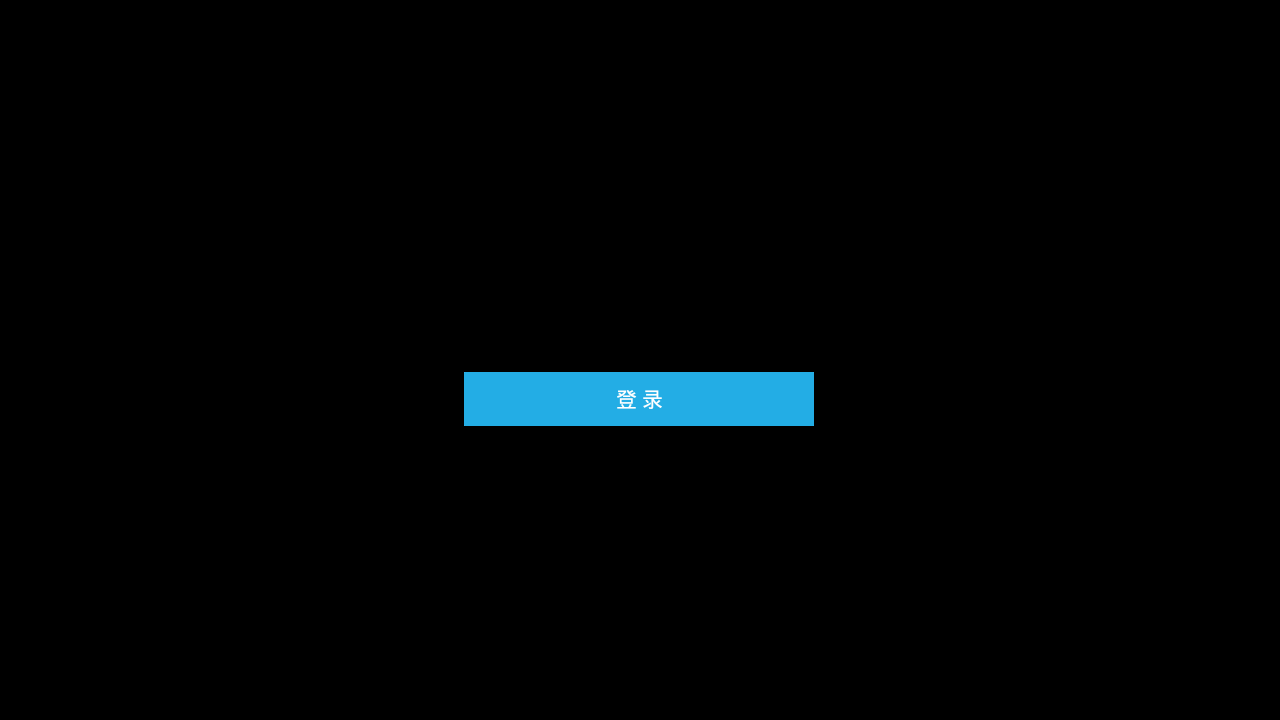
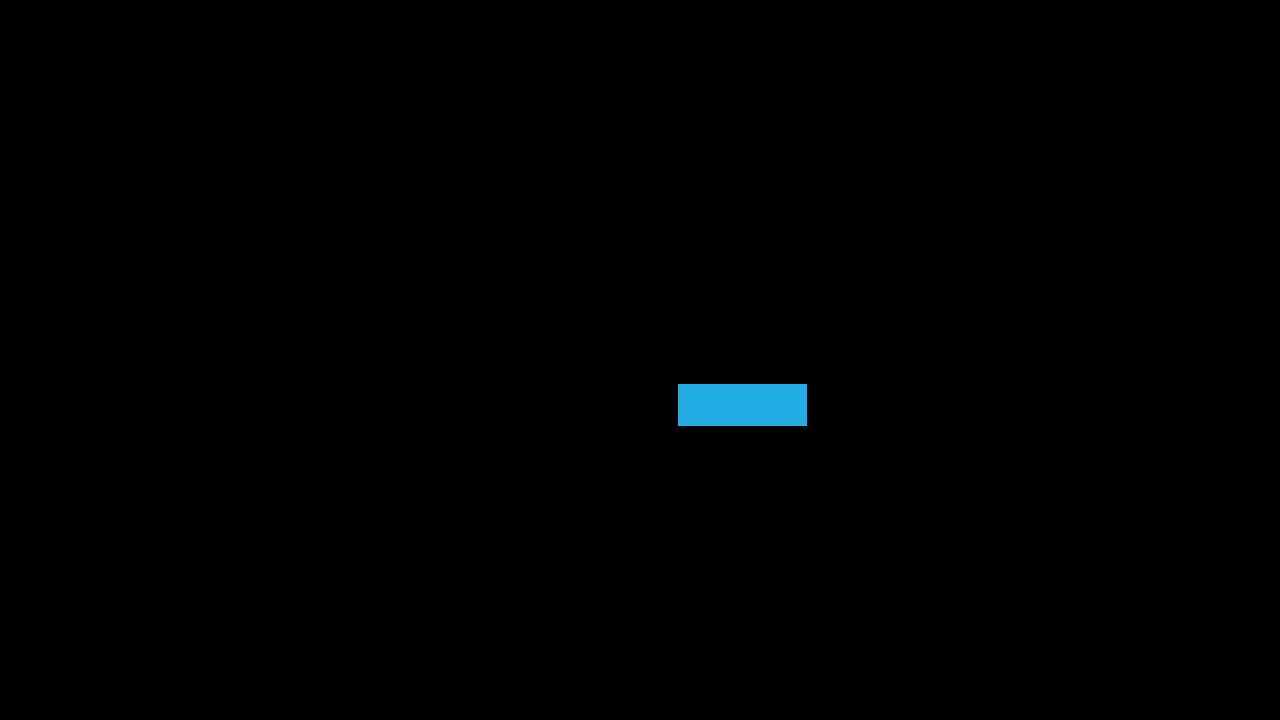
Fix: [CN] LOGIN_CONFIRM different in different device
- Improve log appearance of login

Changed region(s): [[0.3438, 0.5194, 0.6562, 0.6111]]

diff --git a/module/handler/assets.py b/module/handler/assets.py
@@ -22,7 +22,7 @@ IN_MAP = Button(area={'cn': (749, 654, 921, 707), 'en': (748, 652, 922, 702), 'j
 IN_STAGE = Button(area={'cn': (122, 16, 172, 39), 'en': (120, 18, 208, 40), 'jp': (121, 15, 174, 40)}, color={'cn': (149, 167, 207), 'en': (104, 118, 157), 'jp': (151, 167, 205)}, button={'cn': (122, 16, 172, 39), 'en': (120, 18, 208, 40), 'jp': (121, 15, 174, 40)}, file={'cn': './assets/cn/handler/IN_STAGE.png', 'en': './assets/en/handler/IN_STAGE.png', 'jp': './assets/jp/handler/IN_STAGE.png'})
 LOGIN_ANNOUNCE = Button(area={'cn': (1160, 45, 1227, 90), 'en': (1159, 44, 1228, 91), 'jp': (1160, 46, 1224, 86)}, color={'cn': (174, 61, 56), 'en': (193, 79, 73), 'jp': (191, 79, 74)}, button={'cn': (1160, 45, 1227, 90), 'en': (1159, 44, 1228, 91), 'jp': (1160, 46, 1224, 86)}, file={'cn': './assets/cn/handler/LOGIN_ANNOUNCE.png', 'en': './assets/en/handler/LOGIN_ANNOUNCE.png', 'jp': './assets/jp/handler/LOGIN_ANNOUNCE.png'})
 LOGIN_CHECK = Button(area={'cn': (77, 655, 154, 711), 'en': (77, 655, 154, 711), 'jp': (77, 655, 154, 711)}, color={'cn': (33, 36, 33), 'en': (33, 36, 33), 'jp': (33, 36, 33)}, button={'cn': (416, 294, 534, 400), 'en': (416, 294, 534, 400), 'jp': (416, 294, 534, 400)}, file={'cn': './assets/cn/handler/LOGIN_CHECK.png', 'en': './assets/en/handler/LOGIN_CHECK.png', 'jp': './assets/jp/handler/LOGIN_CHECK.png'})
-LOGIN_CONFIRM = Button(area={'cn': (464, 372, 814, 426), 'en': (464, 372, 814, 426), 'jp': (464, 372, 814, 426)}, color={'cn': (39, 174, 229), 'en': (39, 174, 229), 'jp': (39, 174, 229)}, button={'cn': (464, 372, 814, 426), 'en': (464, 372, 814, 426), 'jp': (464, 372, 814, 426)}, file={'cn': './assets/cn/handler/LOGIN_CONFIRM.png', 'en': './assets/en/handler/LOGIN_CONFIRM.png', 'jp': './assets/jp/handler/LOGIN_CONFIRM.png'})
+LOGIN_CONFIRM = Button(area={'cn': (678, 384, 807, 426), 'en': (678, 384, 807, 426), 'jp': (678, 384, 807, 426)}, color={'cn': (35, 173, 229), 'en': (35, 173, 229), 'jp': (35, 173, 229)}, button={'cn': (678, 384, 807, 426), 'en': (678, 384, 807, 426), 'jp': (678, 384, 807, 426)}, file={'cn': './assets/cn/handler/LOGIN_CONFIRM.png', 'en': './assets/en/handler/LOGIN_CONFIRM.png', 'jp': './assets/jp/handler/LOGIN_CONFIRM.png'})
 LOGIN_GAME_UPDATE = Button(area={'cn': (700, 471, 873, 529), 'en': (699, 470, 874, 530), 'jp': (700, 471, 873, 529)}, color={'cn': (238, 170, 78), 'en': (236, 167, 74), 'jp': (238, 170, 78)}, button={'cn': (700, 471, 873, 529), 'en': (699, 470, 874, 530), 'jp': (700, 471, 873, 529)}, file={'cn': './assets/cn/handler/LOGIN_GAME_UPDATE.png', 'en': './assets/en/handler/LOGIN_GAME_UPDATE.png', 'jp': './assets/jp/handler/LOGIN_GAME_UPDATE.png'})
 LOGIN_RETURN_SIGN = Button(area={'cn': (1, 7, 104, 47), 'en': (1195, 524, 1272, 547), 'jp': (1, 7, 104, 47)}, color={'cn': (158, 214, 229), 'en': (202, 202, 203), 'jp': (158, 214, 229)}, button={'cn': (1, 7, 104, 47), 'en': (1195, 524, 1272, 547), 'jp': (1, 7, 104, 47)}, file={'cn': './assets/cn/handler/LOGIN_RETURN_SIGN.png', 'en': './assets/en/handler/LOGIN_RETURN_SIGN.png', 'jp': './assets/jp/handler/LOGIN_RETURN_SIGN.png'})
 MAP_AIR_RAID = Button(area={'cn': (350, 447, 1280, 472), 'en': (350, 447, 1280, 472), 'jp': (350, 447, 1280, 472)}, color={'cn': (154, 43, 46), 'en': (154, 43, 46), 'jp': (154, 43, 46)}, button={'cn': (350, 447, 1280, 472), 'en': (350, 447, 1280, 472), 'jp': (350, 447, 1280, 472)}, file={'cn': './assets/cn/handler/MAP_AIR_RAID.png', 'en': './assets/en/handler/MAP_AIR_RAID.png', 'jp': './assets/jp/handler/MAP_AIR_RAID.png'})

diff --git a/module/handler/login.py b/module/handler/login.py
@@ -12,6 +12,7 @@ class LoginHandler(Combat):
         logger.hr('App login')
 
         confirm_timer = Timer(1.5, count=4).start()
+        login_success = False
         while 1:
             self.device.screenshot()
 
@@ -28,11 +29,13 @@ class LoginHandler(Combat):
                 continue
             if self.appear_then_click(LOGIN_RETURN_SIGN, offset=(30, 30), interval=1):
                 continue
-            if self.appear_then_click(LOGIN_CONFIRM, offset=(30, 30), interval=1):
+            if self.appear_then_click(LOGIN_CONFIRM, interval=1):
                 continue
 
-            if self.info_bar_count() and self.appear_then_click(LOGIN_CHECK, interval=0.5):
-                logger.info('Login success')
+            if self.info_bar_count() and self.appear_then_click(LOGIN_CHECK, interval=5):
+                if not login_success:
+                    logger.info('Login success')
+                    login_success = True
             if self.appear(MAIN_CHECK):
                 if confirm_timer.reached():
                     logger.info('Login to main confirm')
